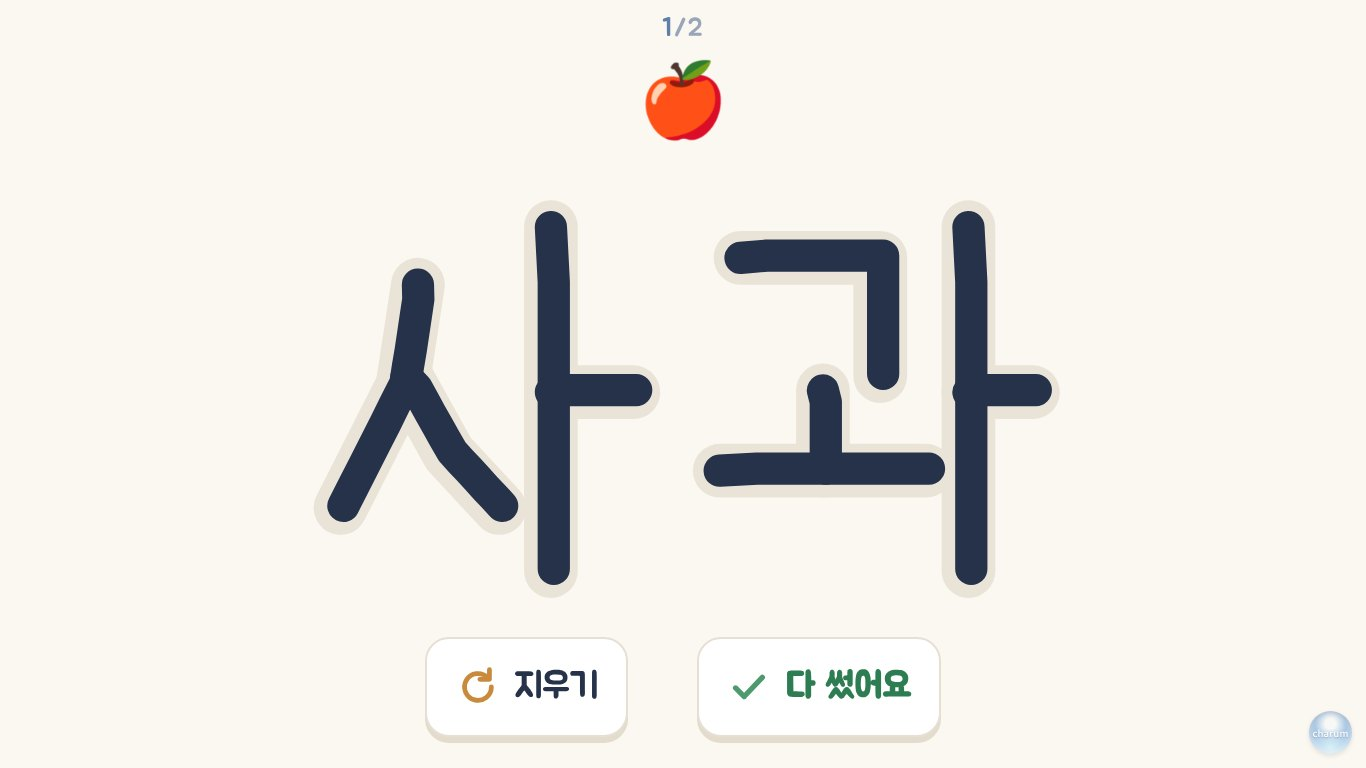
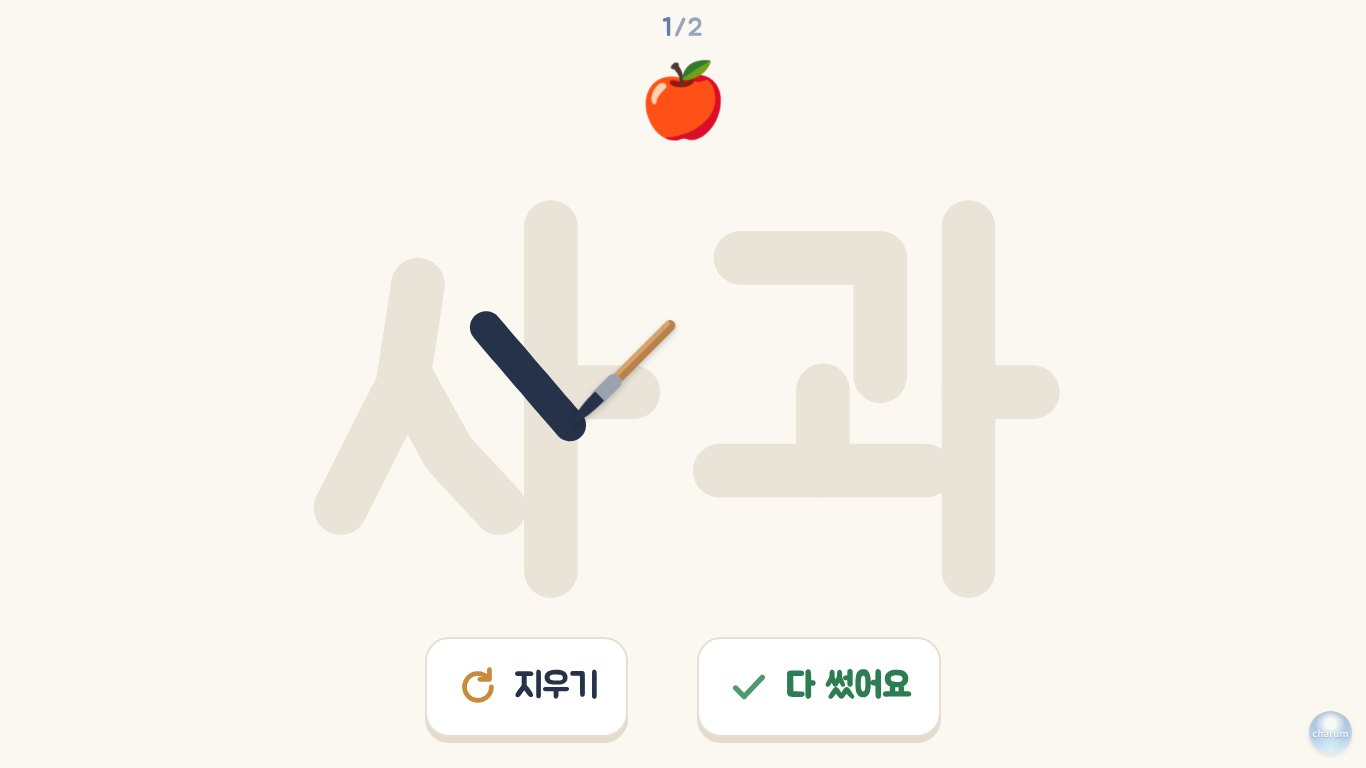
Add files via upload

Changed region(s): [[0.4919, 0.2812, 0.7687, 0.7812], [0.2152, 0.2812, 0.4919, 0.7812]]

diff --git a/007/word-learn.html b/007/word-learn.html
@@ -208,6 +208,15 @@ button{font-family:inherit;cursor:pointer}
 .picletters.out{opacity:0}
 .picletters img{position:absolute;object-fit:contain;opacity:0;transform:scale(.3);transition:opacity .18s ease,transform .22s ease}
 .picletters img.on{opacity:1;transform:scale(1)}
+.fontword .syl{transition:opacity .35s ease}
+.fontword .syl.hide{opacity:0}
+.sdot{position:absolute;border-radius:50%;border:3px solid #B9C7D8;background:#fff;box-shadow:0 4px 0 #E3DCCD;cursor:pointer;transition:background .25s,border-color .25s,transform .2s}
+.sdot.next{border-color:#7E9CC0}
+.sdot.hint{animation:hint 1.8s ease-in-out infinite}
+.sdot.done{background:#7E9CC0;border-color:#7E9CC0;box-shadow:none;transform:scale(.8)}
+/* 쓰기 붓: 손가락·마우스 끝에 붓이 따라다님(붓끝이 닿는 곳) */
+#brush{position:fixed;left:0;top:0;width:92px;height:92px;pointer-events:none;z-index:8;display:none;will-change:transform;filter:drop-shadow(0 3px 3px rgba(0,0,0,.18))}
+#traceHit.brushy{cursor:none}
 /* 기록 중 표시: 녹화처럼 빨간 점 (깜빡이지 않음, 이름 없음) */
 .rec{position:absolute;left:16px;top:14px;z-index:5;display:none;align-items:center;gap:6px;font-size:14px;font-weight:700;color:#E0353B;opacity:.7;white-space:nowrap}
 .rec::before{content:"";width:11px;height:11px;border-radius:50%;background:#E0353B;box-shadow:0 0 0 3px rgba(224,53,59,.18)}
@@ -275,7 +284,7 @@ body.recording .rec{display:inline-flex}
      <div class="seg" id="picSeg">
       <button data-v="gemini">Gemini가 그린 그림</button><button data-v="emoji">기본 그림</button>
      </div>
-     <div class="note" style="margin-top:8px"><b>Gemini 키 받기</b>: <a href="https://aistudio.google.com/app/apikey" target="_blank" rel="noopener">aistudio.google.com/apikey</a> 에서 <b>Create API key</b>(API 키 만들기)를 누르고, 키를 복사해 아래 칸에 넣으세요. 그림 모델은 결제 등록이 필요할 수 있어요.</div>
+     <div class="note" style="margin-top:8px"><b>Gemini 키 받기</b>: <a href="https://aistudio.google.com/app/apikey" target="_blank" rel="noopener">aistudio.google.com/apikey</a> 에서 <b>Create API key</b>(API 키 만들기)를 누르고, 키를 복사해 아래 칸에 넣으세요. <br><b>Gemini 그림은 무료가 아니에요.</b> 결제 등록이 필요하고, <b>그림을 한 장 그릴 때마다 약 50원</b>이 들어요. 그린 그림은 이 기기에 저장해 다시 쓰므로, 같은 낱말은 다시 그리지 않는 한 또 들지 않아요(다시 그리기를 하거나 다른 기기·브라우저에서 처음 그릴 때는 다시 들어요). 돈을 쓰지 않으려면 "기본 그림"을 고르세요.</div>
      <div class="keyline" style="margin-top:6px">
       <input id="gemKey" type="password" placeholder="AIza… 로 시작하는 Gemini 키" autocomplete="off" spellcheck="false">
       <button class="btn" data-eye="gemKey">보기</button>
@@ -423,6 +432,12 @@ body.recording .rec{display:inline-flex}
  <div id="dots"></div>
 </div>
 <img id="pen" class="hidden" alt="">
+<div id="brush"><svg viewBox="0 0 100 100" width="100%" height="100%" aria-hidden="true">
+ <line x1="40" y1="60" x2="94" y2="6" stroke="#B9814B" stroke-width="10" stroke-linecap="round"/>
+ <line x1="40" y1="60" x2="94" y2="6" stroke="#D9A46C" stroke-width="4" stroke-linecap="round" transform="translate(-2,-2)"/>
+ <line x1="29" y1="71" x2="43" y2="57" stroke="#9AA3AE" stroke-width="14" stroke-linecap="round"/>
+ <path d="M3 97 C9 84 17 74 26 66 L34 74 C26 83 16 91 3 97 Z" fill="#26324A"/>
+</svg></div>
 
 <div class="tbar hidden" id="tTop">
  <span id="tWord"></span>
@@ -1198,8 +1213,9 @@ const Gem = {
     if (!r.ok) throw new Error('key ' + r.status);
     const j = await r.json();
     const list = (j.models || []).filter(m => (m.supportedGenerationMethods || []).includes('generateContent')).map(m => m.name.replace('models/', ''));
-    const img = list.filter(n => /image/.test(n) && /gemini/.test(n));
-    const score = n => (/flash-image$/.test(n) ? 100 : 0) + (/flash/.test(n) ? 20 : 0) + (/preview/.test(n) ? -5 : 0) + (/2\.5/.test(n) ? 3 : 0) + (/3/.test(n) ? 4 : 0);
+    /* 그림 모델: 값이 싸고 빠른 것부터 (Nano Banana 2.1 → Flash Lite Image → Flash Image → Pro) */
+    const img = list.filter(n => /gemini/.test(n) && /image|nano-banana/.test(n) && !/imagen/.test(n));
+    const score = n => (/nano-banana/.test(n) ? 200 : 0) + (/flash-lite-image/.test(n) ? 150 : 0) + (/flash-image/.test(n) ? 100 : 0) + (/pro/.test(n) ? -50 : 0) + (/preview/.test(n) ? -5 : 0) + (parseFloat((n.match(/(\d+(\.\d+)?)/) || [0, 0])[1]) || 0);
     img.sort((a, b) => score(b) - score(a));
     return img[0] || '';
   },
@@ -1235,6 +1251,8 @@ function isEmojiOnly(s) { return !!s && /^\p{Extended_Pictographic}/u.test(s.tri
 /* =========================================================
    목소리
    ========================================================= */
+/* 말 빠르기: 기본(0.92 / 0.78)의 90% — 선생님 요청 */
+const G_RATE = 0.83;
 const Speech = {
   ctx: null, gain: null, buf: new Map(), gen: 0, cur: null, fellBack: false, devVoice: null,
   initAudio() {
@@ -1252,7 +1270,7 @@ const Speech = {
     });
     return out;
   },
-  key(t) { return 'g|' + S.voice + '|' + t; },
+  key(t) { return 'g|' + S.voice + '|' + G_RATE + '|' + t; },
   async gBuffer(t) {
     const k = this.key(t);
     if (this.buf.has(k)) return this.buf.get(k);
@@ -1261,7 +1279,7 @@ const Speech = {
       if (!ab) {
         const r = await fetch('https://texttospeech.googleapis.com/v1/text:synthesize', {
           method: 'POST', headers: { 'Content-Type': 'application/json', 'X-Goog-Api-Key': S.ttsKey },
-          body: JSON.stringify({ input: { text: t }, voice: { languageCode: 'ko-KR', name: 'ko-KR-Chirp3-HD-' + S.voice }, audioConfig: { audioEncoding: 'LINEAR16', sampleRateHertz: 24000, speakingRate: 0.92 } })
+          body: JSON.stringify({ input: { text: t }, voice: { languageCode: 'ko-KR', name: 'ko-KR-Chirp3-HD-' + S.voice }, audioConfig: { audioEncoding: 'LINEAR16', sampleRateHertz: 24000, speakingRate: G_RATE } })
         });
         if (!r.ok) { const e = new Error('tts ' + r.status); e.status = r.status; e.body = await r.text().catch(() => ''); throw e; }
         const j = await r.json();
@@ -1335,7 +1353,7 @@ const Speech = {
     await new Promise(res => {
       try {
         const u = new SpeechSynthesisUtterance(t);
-        u.lang = 'ko-KR'; u.rate = 0.78; u.volume = 0.8; if (this.devVoice) u.voice = this.devVoice;
+        u.lang = 'ko-KR'; u.rate = 0.70; u.volume = 0.8; if (this.devVoice) u.voice = this.devVoice;
         u.onend = res; u.onerror = res;
         speechSynthesis.speak(u);
         setTimeout(res, 1500 + t.length * 420);
@@ -1495,8 +1513,8 @@ function updateDots() {
   d.innerHTML = R.ended ? '' : `<b>${(cur ? cur.wi : 0) + 1}</b>/${R.words.length}`;
 }
 function prepTexts(words) {
-  const t = ['똑같은 글자를 찾아요.', '다시 해요.', '다음 낱말이에요.', '글자에 맞는 그림을 찾아요.', '여기 있어요.', '글자를 눌러요.', '따라 써요.', '오늘 배운 낱말이에요.', '다 했어요.', ...Praise.list];
-  words.forEach(w => t.push(w, eul(w) + ' 찾아요.', ieyo(w) + '.', w + ', 똑같은 글자예요.'));
+  const t = ['똑같은 글자를 찾아요.', '동그라미를 눌러요.', '다시 해요.', '다음 낱말이에요.', '글자에 맞는 그림을 찾아요.', '여기 있어요.', '글자를 눌러요.', '붓으로 따라 써요.', '오늘 배운 낱말이에요.', '다 했어요.', ...Praise.list];
+  words.forEach(w => { t.push(w, eul(w) + ' 찾아요.', ieyo(w) + '.', w + ', 똑같은 글자예요.'); [...w].forEach(c => c !== ' ' && t.push(c)); });
   return t;
 }
 
@@ -1511,20 +1529,20 @@ async function startLesson(words) {
   stage.innerHTML = '';
   await loadFonts(words);
   await Pics.url(words[0]);
-  runFrom(0);
+  afterFullscreen(() => runFrom(0));
 }
 async function runFrom(i) {
   const run = ++R.run; Speech.stop(); R.ended = false; R.trace = null;
   try {
     for (let k = i; k < R.items.length; k++) {
-      R.idx = k; updateDots(); Teacher.refresh();
+      R.idx = k; R.size = [innerWidth, innerHeight]; updateDots(); Teacher.refresh();
       if (await doItem(R.items[k], run) === 'skip') continue;
       await wait(R.items[k + 1] && R.items[k + 1].wi !== R.items[k].wi ? 900 : 450, run);
     }
     await endScreen(run);
   } catch (e) { if (e !== CANCEL) console.error(e); }
 }
-function clearStage() { stage.innerHTML = ''; hidePen(); R.trace = null; }
+function clearStage() { stage.innerHTML = ''; hidePen(); R.trace = null; const b = document.getElementById('brush'); if (b) b.style.display = 'none'; }
 /* 그림이 아직 그려지는 중이면 다 될 때까지 조용히 기다림. 끝내 그림이 없으면 그 낱말은 건너뜀 */
 async function waitPic(w, run) {
   if (BG.busy(w)) {
@@ -1589,11 +1607,11 @@ async function introPicLetters(w, run) {
       box.appendChild(im); stamps.push(im);
     }
   });
-  const per = Math.max(16, Math.min(45, 2200 / stamps.length));
+  const per = Math.max(70, Math.min(120, 5000 / stamps.length));
   for (const im of stamps) { im.classList.add('on'); await wait(per, run); }
-  await wait(450, run);
+  await wait(600, run);
   await say(w, run);
-  await wait(900, run);
+  await wait(1200, run);
   box.classList.add('out');
   await wait(600, run);
 }
@@ -1659,22 +1677,44 @@ async function stageLook(w, run) {
     if (i < fonts.length - 1) await wait(1250, run);
   }
 
-  /* 글자를 누르면 다시 읽고 다음으로 */
-  const last = prev;
-  last.classList.add('tapword');
+  /* 글자 수만큼 동그라미: 순서대로 누르면 그 글자가 하나씩 나오고, 다 나오면 낱말을 말함 */
+  const last = prev, lastFont = fonts[fonts.length - 1];
+  const chars = [...w];
+  last.innerHTML = chars.map(c => `<span class="syl">${esc(c)}</span>`).join('');
+  await wait(400, run);
+  const spans = [...last.querySelectorAll('.syl')];
+  spans.forEach(sp => sp.classList.add('hide'));
+  await wait(450, run);
+  const dotS = Math.min(H * 0.1, W * 0.09, 86);
+  const dotY = Math.min(H - dotS - 14, box.y + box.h + dotS * 0.25);
+  const dots = spans.map((sp, i) => {
+    const r = sp.getBoundingClientRect();
+    const d = document.createElement('div'); d.className = 'sdot' + (i === 0 ? ' next' : '');
+    Object.assign(d.style, { width: dotS + 'px', height: dotS + 'px', left: (r.left + r.width / 2 - dotS / 2) + 'px', top: dotY + 'px' });
+    if (chars[i] === ' ') d.style.display = 'none';
+    stage.appendChild(d); return d;
+  });
   await new Promise((res, rej) => {
-    let done = false, hinted = false;
-    const t1 = setTimeout(() => { if (!done && run === R.run) last.classList.add('hint'); }, 3000);
-    const t2 = setTimeout(async () => { if (!done && run === R.run && !hinted) { hinted = true; try { await say('글자를 눌러요.', run); } catch (e) {} } }, 7000);
-    const t3 = setTimeout(() => finish(), 20000);
-    const clear = () => { clearTimeout(t1); clearTimeout(t2); clearTimeout(t3); clearInterval(chk); };
-    const finish = async () => {
-      if (done) return; done = true; clear();
-      last.classList.remove('hint');
-      try { await say(w, run); res(); } catch (e) { rej(e); }
+    let i = 0, done = false, hinted = false, last = performance.now();
+    while (chars[i] === ' ') { spans[i].classList.remove('hide'); i++; }
+    const chk = setInterval(async () => {
+      if (run !== R.run) { clearInterval(chk); rej(CANCEL); return; }
+      if (done) return;
+      const idle = performance.now() - last;
+      if (idle > 3000 && dots[i]) dots[i].classList.add('hint');
+      if (idle > 8000 && !hinted) { hinted = true; say('동그라미를 눌러요.', run).catch(() => {}); }
+    }, 250);
+    const reveal = async () => {
+      const ch = chars[i];
+      spans[i].classList.remove('hide'); dots[i].classList.remove('next', 'hint'); dots[i].classList.add('done');
+      i++; while (chars[i] === ' ') { spans[i].classList.remove('hide'); i++; }
+      last = performance.now();
+      const p = say(ch, run);          /* 누를 때마다 그 글자 소리 */
+      if (i < chars.length) { dots[i].classList.add('next'); p.catch(() => {}); return; }
+      done = true; clearInterval(chk);
+      try { await p; await wait(450, run); await say(w, run); res(); } catch (e) { rej(e); }
     };
-    last.addEventListener('pointerup', () => { if (run === R.run) setTimeout(finish, 120); });
-    const chk = setInterval(() => { if (run !== R.run) { clear(); rej(CANCEL); } }, 200);
+    dots.forEach((d, j) => d.addEventListener('pointerup', () => { if (done || run !== R.run) return; if (j === i) reveal(); else if (dots[i]) dots[i].classList.add('hint'); }));
   });
   await wait(300, run);
 }
@@ -1768,7 +1808,7 @@ async function stageTrace(w, run) {
   const L = layoutWord(w, 0.56, 0.56);
   const { ws, k, svg, svgX, svgY, toScr } = L;
   const guides = ws.strokes.map(st => strokePath(svg, st.pts, 'guide' + (isFocus(st) ? ' focus' : ''), 15));
-  const hit = document.createElement('div'); hit.id = 'traceHit'; stage.appendChild(hit);
+  const hit = document.createElement('div'); hit.id = 'traceHit'; hit.classList.add('brushy'); stage.appendChild(hit);
 
   const penSize = Math.max(58, 100 * k * 0.4);
   setPenSrc(await Pics.url(w)); alive(run);
@@ -1780,7 +1820,7 @@ async function stageTrace(w, run) {
   let helped = false, saidHint = false;
   const TOL = 26, AHEAD = 30;
   R.trace = { si: 0, gliding: false, screen: [] };
-  const firstInstr = say('따라 써요.', run).catch(() => {});
+  const firstInstr = say('붓으로 따라 써요.', run).catch(() => {});
 
   for (let si = 0; si < ws.strokes.length; si++) {
     const st = ws.strokes[si];
@@ -1844,7 +1884,7 @@ async function stageTrace(w, run) {
         const idle = performance.now() - lastMove;
         if (!hinted && !auto && idle > 6000) {
           hinted = true; pen.classList.add('penhint');
-          if (!saidHint) { saidHint = true; say('따라 써요.', run).catch(() => {}); }
+          if (!saidHint) { saidHint = true; say('붓으로 따라 써요.', run).catch(() => {}); }
         }
         if (!auto && idle > 13000) {
           auto = true; helped = true; pen.classList.remove('penhint');
@@ -1905,10 +1945,16 @@ async function stageFreeWrite(w, run) {
 
   const user = []; let curPts = null, curPath = null;
   const toSvg = e => [(e.clientX - svgX) / k, (e.clientY - svgY) / k];
+  const brush = $('#brush'), bs = Math.max(70, Math.min(110, 100 * k * 0.6));
+  brush.style.width = brush.style.height = bs + 'px';
+  const moveBrush = e => { brush.style.display = 'block'; brush.style.transform = `translate(${e.clientX - bs * 0.03}px, ${e.clientY - bs * 0.97}px)`; };
+  hit.classList.add('brushy');
+  hit.addEventListener('pointermove', moveBrush); hit.addEventListener('pointerdown', moveBrush);
+  hit.addEventListener('pointerleave', () => { brush.style.display = 'none'; });
   const redraw = () => { if (curPath) curPath.setAttribute('d', 'M' + curPts.map(p => p[0].toFixed(1) + ' ' + p[1].toFixed(1)).join(' L') + (curPts.length === 1 ? ' l0.1 0' : '')); };
   R.free = { svgX, svgY, k, ws };
   let lastAct = performance.now();
-  const instr = copy ? '보고 써요.' : '따라 써요.';
+  const instr = copy ? '보고 써요.' : '붓으로 따라 써요.';
   say(instr, run).catch(() => {});
   await new Promise((res, rej) => {
     let down = false, said = false;
@@ -1936,7 +1982,7 @@ async function stageFreeWrite(w, run) {
     }, 300);
     okB.addEventListener('pointerup', () => { if (!user.length) return; clearInterval(chk); res(); });
   });
-  R.free = null;
+  R.free = null; brush.style.display = 'none';
   btns.querySelectorAll('.wbtn').forEach(b => b.classList.add('off'));
   const score = likeness(user, ws.strokes);
   Rec.add(w, 5, 'self', score);
@@ -2050,8 +2096,8 @@ const Teacher = {
     a.addEventListener('click', () => { if (performance.now() < this.ignoreUntil) return; if (S.teacher) this.close(); });
     a.addEventListener('contextmenu', e => e.preventDefault());
     const curWi = () => { const it = R.items[Math.min(R.idx, R.items.length - 1)]; return it ? it.wi : 0; };
-    const go = i => { this.close(false); runFrom(i); };
-    const goEnd = () => { this.close(false); const run = ++R.run; Speech.stop(); R.idx = R.items.length; endScreen(run).catch(() => {}); };
+    const go = i => { this.close(false); afterFullscreen(() => runFrom(i)); };
+    const goEnd = () => { this.close(false); const run = ++R.run; Speech.stop(); R.idx = R.items.length; afterFullscreen(() => { if (run === R.run) endScreen(run).catch(() => {}); }); };
     const goWord = wi => { const i = R.items.findIndex(x => x.wi === wi); if (i >= 0) go(i); };
     $$('#tTop [data-st]').forEach(b => b.addEventListener('click', () => {
       const st = +b.dataset.st;
@@ -2078,8 +2124,8 @@ const Teacher = {
   /* 닫으면 바꾼 설정으로 멈춘 단계의 처음부터, 전체 화면 학생 화면 */
   close(resume = true) {
     if (!S.teacher) return;
-    S.teacher = false; endTour(); this.refresh(); enterFS();
-    if (resume && !R.ended) runFrom(R.idx);
+    S.teacher = false; endTour(); this.refresh();
+    afterFullscreen(() => { if (resume && !R.ended) runFrom(R.idx); });
   },
   refresh() {
     const a = $('#aqua'); a.classList.toggle('on', S.teacher); a.querySelector('span').textContent = S.teacher ? '심' : 'charum';
@@ -2198,8 +2244,32 @@ document.addEventListener('pointerdown', () => { if (SPOT.el) hideSpot(); }, tru
 window.addEventListener('resize', () => { if (SPOT.el) placeSpot(); });
 document.addEventListener('scroll', () => { if (SPOT.el) placeSpot(); }, true);
 
+/* 전체 화면이 다 커진 뒤에 화면을 그림 (작은 크기로 그려진 채 남지 않게) */
+const isFS = () => !!(document.fullscreenElement || document.webkitFullscreenElement);
+function afterFullscreen(fn) {
+  const was = [innerWidth, innerHeight];
+  enterFS();
+  let done = false;
+  const go = () => {
+    if (done) return; done = true;
+    document.removeEventListener('fullscreenchange', go); document.removeEventListener('webkitfullscreenchange', go); window.removeEventListener('resize', go);
+    requestAnimationFrame(() => requestAnimationFrame(() => setTimeout(fn, 80)));
+  };
+  document.addEventListener('fullscreenchange', go); document.addEventListener('webkitfullscreenchange', go); window.addEventListener('resize', go);
+  setTimeout(go, isFS() ? 30 : 700);
+}
+/* 수업 중 화면 크기가 바뀌면(전체 화면 들어가기·돌리기) 지금 단계를 새 크기로 다시 그림 */
+let rzT = 0;
+window.addEventListener('resize', () => {
+  clearTimeout(rzT);
+  rzT = setTimeout(() => {
+    if ($('#lesson').classList.contains('hidden') || S.teacher || R.ended || TOUR.on || !R.size) return;
+    const [w0, h0] = R.size;
+    if (Math.abs(innerWidth - w0) / w0 > 0.04 || Math.abs(innerHeight - h0) / h0 > 0.04) runFrom(R.idx);
+  }, 400);
+});
 /* 전체 화면 */
-function enterFS() { const d = document.documentElement; try { (d.requestFullscreen || d.webkitRequestFullscreen || (() => {})).call(d); } catch (e) {} }
+function enterFS() { const d = document.documentElement; if (isFS()) return; try { const r = (d.requestFullscreen || d.webkitRequestFullscreen || (() => {})).call(d); if (r && r.catch) r.catch(() => {}); } catch (e) {} }
 function exitFS() { try { if (document.fullscreenElement || document.webkitFullscreenElement) (document.exitFullscreen || document.webkitExitFullscreen).call(document); } catch (e) {} }
 $('#lesson').addEventListener('pointerdown', () => { Speech.initAudio(); if (S.teacher && !TOUR.on) { Teacher.close(); return; } if (!document.fullscreenElement && !document.webkitFullscreenElement) enterFS(); }, { capture: true, passive: true });
 
@@ -2343,7 +2413,7 @@ $('#resumeBtn').addEventListener('click', () => {
   const i = R.paused; R.paused = null; showPauseBar();
   storeKeys(); Speech.initAudio();
   $('#setup').classList.add('hidden'); $('#lesson').classList.remove('hidden');
-  enterFS(); runFrom(i);
+  afterFullscreen(() => runFrom(i));
 });
 $('#quitBtn').addEventListener('click', () => { Rec.endLesson(); R.paused = null; R.trials = []; showPauseBar(); });
 segInit('#modeSeg', 'mode', () => { renderJamo(); autoPick(true); renderWordChips(); });
@@ -2715,6 +2785,7 @@ $('#drawAll').addEventListener('click', async e => {
   storeKeys(); const m = $('#wmMsg');
   if (!S.gemKey) { m.textContent = 'Gemini 키를 넣으면 그림을 그릴 수 있어요.'; return; }
   const need = []; for (const it of S.words) if (!(await Pics.hasStored(it.w))) need.push(it);
+  if (need.length && !confirm(`그림 ${need.length}장을 그려요.\nGemini 그림은 한 장마다 약 50원이 들어서, 모두 약 ${(need.length * 50).toLocaleString()}원이 들어요.\n그릴까요?`)) return;
   let fail = 0;
   if (need.length) { Loading.show('그림을 그리고 있어요'); fail = await drawWithLoading(need); await sleep(600); Loading.hide(); }
   m.textContent = need.length ? `${need.length - fail}개를 그렸어요.` + (fail ? ` ${fail}개는 그리지 못했어요.` : '') : '모든 낱말에 그림이 있어요.';

diff --git a/007/word-learn_manual.html b/007/word-learn_manual.html
@@ -9,7 +9,7 @@
 <h3 style="font-size:19px;margin:24px 0 8px;border-left:5px solid #3E7CB1;padding-left:10px;">처음 한 번 준비</h3>
 <img src="https://shim-sung-hyun.github.io/web_app/007/word-learn01.jpg" alt="처음 화면" style="width:100%;border-radius:10px;border:1px solid #e4ded2;">
 <ul style="margin:8px 0 0;padding-left:20px;">
-<li><b>1 키 설정</b>: Gemini 키(그림 그리기)와 Google 음성 키(Cloud 키)를 넣어요. 키를 받는 곳과 순서가 화면에 있고, <a href="https://shim-sung-hyun.github.io/web_app/007/cloud-key.html" target="_blank">Cloud 키 넣는 방법</a>도 있어요.</li>
+<li><b>1 키 설정</b>: Gemini 키(그림 그리기)와 Google 음성 키(Cloud 키)를 넣어요. <b>Gemini 그림은 무료가 아니에요</b>: 결제 등록이 필요하고 그림 한 장을 그릴 때마다 약 50원이 들어요. 그린 그림은 기기에 저장해 다시 쓰므로 같은 낱말은 또 들지 않지만, 다시 그리거나 다른 기기에서 처음 그리면 다시 들어요. 키를 받는 곳과 순서가 화면에 있고, <a href="https://shim-sung-hyun.github.io/web_app/007/cloud-key.html" target="_blank">Cloud 키 넣는 방법</a>도 있어요.</li>
 <li><b>📱 휴대폰으로 받기</b>: 전자칠판에서 붙여 넣기 어려우면 휴대폰에서 두 키를 한 번에 보내요.</li>
 <li>키가 없으면 <b>기기 목소리</b>와 <b>기본 그림</b>으로 바로 할 수 있어요. 넣은 키는 이 기기에 저장되고, 이 사이트의 다른 앱도 함께 써요. 여러 사람이 쓰는 컴퓨터라면 <b>키 지우기</b>를 눌러 주세요.</li>
 </ul>
@@ -49,7 +49,9 @@
 <img src="https://shim-sung-hyun.github.io/web_app/007/word-learn08.jpg" alt="붓이 되어 씀" style="width:100%;border-radius:10px;border:1px solid #e4ded2;">
 <p style="margin:4px 0 14px;color:#55607A;">③ 그림이 작아져 붓이 되고, 획순대로 글자를 써요. 지나간 자리에 그림이 여러 겹 흐리게 남아요.</p>
 <img src="https://shim-sung-hyun.github.io/web_app/007/word-learn09.jpg" alt="글꼴" style="width:100%;border-radius:10px;border:1px solid #e4ded2;">
-<p style="margin:4px 0 14px;color:#55607A;">④ 그림은 위로 가고 글자가 여러 글꼴로 바뀌어요. 학생이 글자를 누르면 다음 단계로 가요.</p>
+<p style="margin:4px 0 14px;color:#55607A;">④ 그림은 위로 가고 글자가 여러 글꼴로 바뀌어요.</p>
+<img src="https://shim-sung-hyun.github.io/web_app/007/word-learn25.jpg" alt="동그라미 누르기" style="width:100%;border-radius:10px;border:1px solid #e4ded2;">
+<p style="margin:4px 0 14px;color:#55607A;">⑤ 그다음 글자가 숨고 글자 수만큼 동그라미가 나와요. 학생이 <b>순서대로</b> 누르면 글자가 하나씩 나오면서 그 글자 소리("사", "과")를 들려주고, 다 나오면 낱말("사과")을 말해 줘요. 순서가 틀리면 다음 동그라미가 반짝이기만 해요.</p>
 <img src="https://shim-sung-hyun.github.io/web_app/007/word-learn10.jpg" alt="같은 글자 찾기" style="width:100%;border-radius:10px;border:1px solid #e4ded2;">
 <p style="margin:4px 0 14px;color:#55607A;">⑤ 같은 글자 찾기: 위 파란 판의 글자와 똑같은 글자를 아래 카드에서 골라요.</p>
 <img src="https://shim-sung-hyun.github.io/web_app/007/word-learn11.jpg" alt="도움" style="width:100%;border-radius:10px;border:1px solid #e4ded2;">
@@ -61,7 +63,7 @@
 <img src="https://shim-sung-hyun.github.io/web_app/007/word-learn14.jpg" alt="쓰기 도와주기" style="width:100%;border-radius:10px;border:1px solid #e4ded2;">
 <p style="margin:4px 0 14px;color:#55607A;">⑨ 쓰기(획 순서 도와주기): 그림을 손가락으로 끌면 획 길을 따라 그어져요. 가만히 있으면 반짝이고, 더 기다리면 대신 그어 줘요.</p>
 <img src="https://shim-sung-hyun.github.io/web_app/007/word-learn15.jpg" alt="혼자 따라 쓰기" style="width:100%;border-radius:10px;border:1px solid #e4ded2;">
-<p style="margin:4px 0 14px;color:#55607A;">⑩ 혼자 따라 쓰기: 흐린 글자 위에 자유롭게 쓰고 "다 썼어요"를 눌러요. 맞고 틀림은 말하지 않고, 기록에 닮은 정도(%)만 남겨요.</p>
+<p style="margin:4px 0 14px;color:#55607A;">⑩ 혼자 따라 쓰기: 손가락 끝에 붓이 따라다녀요. 흐린 글자 위에 자유롭게 쓰고 "다 썼어요"를 눌러요. 맞고 틀림은 말하지 않고, 기록에 닮은 정도(%)만 남겨요.</p>
 <img src="https://shim-sung-hyun.github.io/web_app/007/word-learn16.jpg" alt="혼자 보고 쓰기" style="width:100%;border-radius:10px;border:1px solid #e4ded2;">
 <p style="margin:4px 0 14px;color:#55607A;">⑪ 혼자 보고 쓰기: 위의 그림과 글자를 보고 빈 칸에 써요.</p>
 <img src="https://shim-sung-hyun.github.io/web_app/007/word-learn17.jpg" alt="다시 다음" style="width:100%;border-radius:10px;border:1px solid #e4ded2;">
@@ -89,6 +91,7 @@
 <ul style="margin:0;padding-left:20px;">
 <li>학생이 날마다 보고 쓰는 물건(급식판, 실내화, 우리 교실 물건)을 .txt로 더하면 생활과 바로 이어져요. 더한 낱말도 자음별·모음별 고르기에 저절로 들어가요.</li>
 <li>사진은 물건 하나만, 흰 바탕에 가깝게 찍으면 바탕이 지워져 물체만 남아요.</li>
+<li>돈을 쓰지 않으려면 "기본 그림"을 고르거나 사진을 넣어 쓰세요. Gemini 그림을 쓴다면 Google Cloud의 <b>결제 → 예산 및 알림</b>에서 예산(예: 1만 원)을 정해 두면 넘기 전에 메일이 와요.</li>
 <li>학생 얼굴이나 이름이 나온 사진은 넣지 마세요. Gemini로 그릴 때 낱말과 설명이 Google로 보내져요. 학생 이름은 Google로 보내지 않아요.</li>
 <li>기록·낱말 목록·그림은 이 기기의 브라우저에만 저장돼요. 실명이 든 기록 파일(CSV)은 학교 개인정보 기준대로 보관해 주세요.</li>
 </ul>

diff --git a/007/cloud-key.html b/007/cloud-key.html
@@ -61,7 +61,7 @@ a{color:var(--accent);font-weight:700}
     <li>왼쪽 메뉴 ☰ → <b class="ui">결제</b>로 갑니다.</li>
     <li>안내에 따라 결제 계정을 만들고 카드를 등록한 뒤, 이 프로젝트에 연결합니다.</li>
   </ol>
-  <p class="small">무료 한도 안에서는 요금이 나가지 않습니다.</p>
+  <p class="small">Google 음성은 무료 한도 안에서는 요금이 나가지 않습니다. 다만 <b>같은 결제 계정으로 Gemini 그림을 그리면, 그림 값(한 장에 약 50원)은 따로 나갑니다.</b></p>
 </div>
 
 <div class="box">
